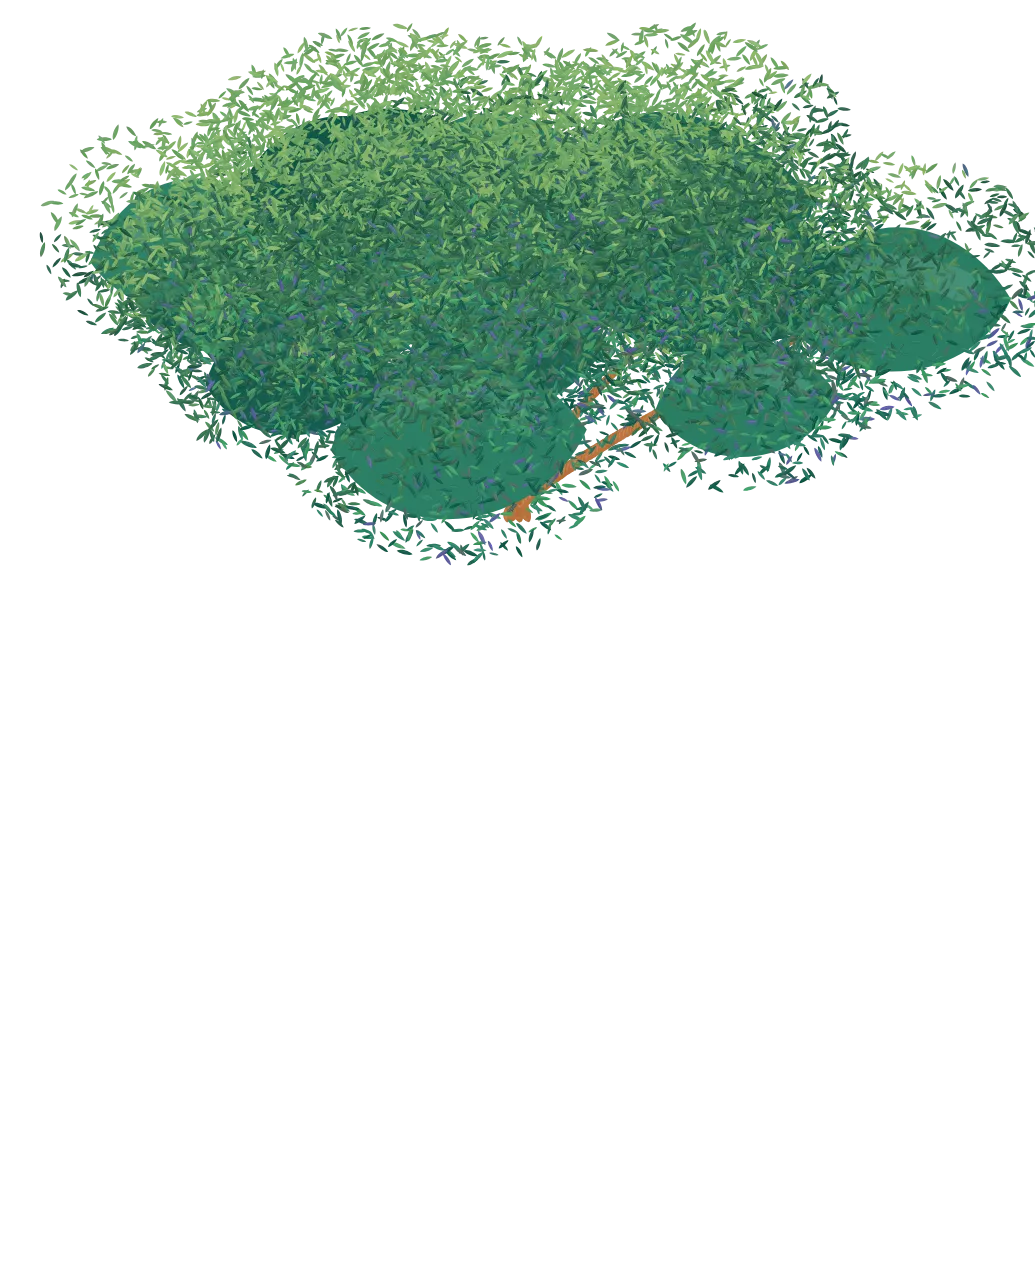
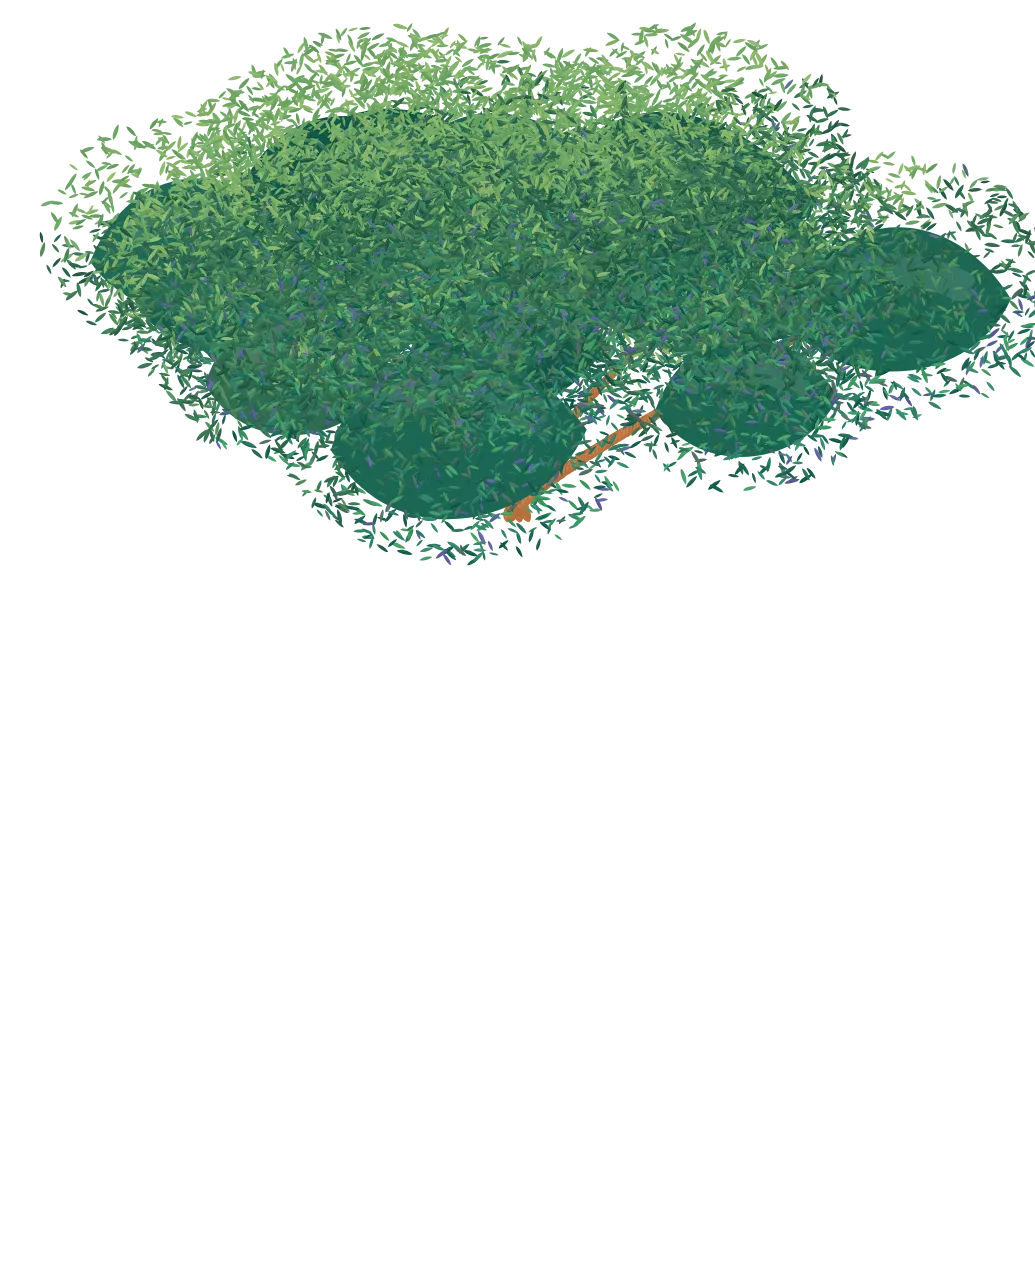
Repaint the Stay square as a glade in the new style
The wedding page's "Stay" painting is now a glade composed from the same
painted trees as the walk - birches, aspen, a rowan with berries,
spruces - in front of a far wall of foliage and pale trunks, with ferns
and flowers on a forest floor drawn in perspective. Branches now leave
the trunk at different heights instead of fanning from one point, and
the shade inside leaf clumps is always deep green.

Claude-Session: https://claude.ai/code/session_01L58MorUYAUdsrYZMewZZCv

diff --git a/assets/klimt/assets.js b/assets/klimt/assets.js
@@ -1,2 +1,2 @@
 /* generated by tools/klimt/export.js */
-window.KLIMT_ASSETS = {"v":"202610311435","trees":[{"TW":300,"TH":1300,"CW":900,"CH":1100,"lean":-5.135299832094461,"hasCrown":true,"cwk":0.58,"at":0.4,"ay":0.88,"seed":500,"kind":"birch","trunk":"tree-0-trunk.webp","crown":"tree-0-crown.webp"},{"TW":300,"TH":1300,"CW":900,"CH":1100,"lean":7.916292874142528,"hasCrown":true,"cwk":0.58,"at":0.4,"ay":0.88,"seed":537,"kind":"birch","trunk":"tree-1-trunk.webp","crown":"tree-1-crown.webp"},{"TW":300,"TH":1300,"CW":900,"CH":1100,"lean":7.302822003606707,"hasCrown":true,"cwk":0.58,"at":0.4,"ay":0.88,"seed":574,"kind":"birch","trunk":"tree-2-trunk.webp","crown":"tree-2-crown.webp"},{"TW":300,"TH":1300,"CW":900,"CH":1100,"lean":-4.784457029309124,"hasCrown":true,"cwk":0.58,"at":0.4,"ay":0.88,"seed":611,"kind":"birch","trunk":"tree-3-trunk.webp","crown":"tree-3-crown.webp"},{"TW":300,"TH":1300,"CW":900,"CH":1100,"lean":3.630536651238799,"hasCrown":true,"cwk":0.72,"at":0.4,"ay":0.88,"seed":648,"kind":"aspen","trunk":"tree-4-trunk.webp","crown":"tree-4-crown.webp"},{"TW":300,"TH":1300,"CW":900,"CH":1100,"lean":4.121461988892406,"hasCrown":true,"cwk":0.72,"at":0.4,"ay":0.88,"seed":685,"kind":"aspen","trunk":"tree-5-trunk.webp","crown":"tree-5-crown.webp"},{"TW":300,"TH":1300,"CW":900,"CH":1100,"lean":4.264245345257223,"hasCrown":true,"cwk":0.72,"at":0.4,"ay":0.88,"seed":722,"kind":"aspen","trunk":"tree-6-trunk.webp","crown":"tree-6-crown.webp"},{"TW":300,"TH":1300,"CW":900,"CH":1100,"lean":6.923804895021021,"hasCrown":true,"cwk":0.8,"at":0.4,"ay":0.88,"seed":759,"kind":"plane","trunk":"tree-7-trunk.webp","crown":"tree-7-crown.webp"},{"TW":300,"TH":1300,"CW":900,"CH":1100,"lean":4.050220062956214,"hasCrown":true,"cwk":0.62,"at":0.4,"ay":0.88,"seed":796,"kind":"rowan","trunk":"tree-8-trunk.webp","crown":"tree-8-crown.webp"},{"TW":300,"TH":1300,"CW":900,"CH":1100,"lean":5.126078965142369,"hasCrown":true,"cwk":0.62,"at":0.4,"ay":0.88,"seed":833,"kind":"rowan","trunk":"tree-9-trunk.webp","crown":"tree-9-crown.webp"},{"TW":300,"TH":1300,"CW":900,"CH":1100,"lean":9.444553330074996,"hasCrown":true,"cwk":0.62,"at":0.4,"ay":0.88,"seed":870,"kind":"pine","trunk":"tree-10-trunk.webp","crown":"tree-10-crown.webp"},{"TW":300,"TH":1300,"CW":900,"CH":1100,"lean":-0.6749369311146438,"hasCrown":true,"cwk":0.62,"at":0.4,"ay":0.88,"seed":907,"kind":"pine","trunk":"tree-11-trunk.webp","crown":"tree-11-crown.webp"},{"TW":560,"TH":1300,"CW":1,"CH":1,"lean":0,"hasCrown":false,"seed":944,"kind":"spruce","trunk":"tree-12-trunk.webp","crown":null},{"TW":560,"TH":1300,"CW":1,"CH":1,"lean":0,"hasCrown":false,"seed":981,"kind":"spruce","trunk":"tree-13-trunk.webp","crown":null},{"TW":560,"TH":1300,"CW":1,"CH":1,"lean":0,"hasCrown":false,"seed":1018,"kind":"spruce","trunk":"tree-14-trunk.webp","crown":null},{"TW":560,"TH":1300,"CW":1,"CH":1,"lean":0,"hasCrown":false,"seed":1055,"kind":"spruce","trunk":"tree-15-trunk.webp","crown":null},{"TW":700,"TH":360,"CW":1,"CH":1,"lean":0,"hasCrown":false,"seed":1092,"kind":"flowers","trunk":"tree-16-trunk.webp","crown":null},{"TW":700,"TH":360,"CW":1,"CH":1,"lean":0,"hasCrown":false,"seed":1129,"kind":"flowers","trunk":"tree-17-trunk.webp","crown":null},{"TW":700,"TH":360,"CW":1,"CH":1,"lean":0,"hasCrown":false,"seed":1166,"kind":"flowers","trunk":"tree-18-trunk.webp","crown":null},{"TW":640,"TH":420,"CW":1,"CH":1,"lean":0,"hasCrown":false,"seed":1203,"kind":"fern","trunk":"tree-19-trunk.webp","crown":null},{"TW":640,"TH":420,"CW":1,"CH":1,"lean":0,"hasCrown":false,"seed":1240,"kind":"fern","trunk":"tree-20-trunk.webp","crown":null},{"TW":640,"TH":420,"CW":1,"CH":1,"lean":0,"hasCrown":false,"seed":1277,"kind":"fern","trunk":"tree-21-trunk.webp","crown":null}],"glints":[],"ground":"ground.webp","path":"path.webp","valley":"valley.webp"};
+window.KLIMT_ASSETS = {"v":"202610311441","trees":[{"TW":300,"TH":1300,"CW":900,"CH":1100,"lean":-5.135299832094461,"hasCrown":true,"cwk":0.58,"at":0.4,"ay":0.88,"seed":500,"kind":"birch","trunk":"tree-0-trunk.webp","crown":"tree-0-crown.webp"},{"TW":300,"TH":1300,"CW":900,"CH":1100,"lean":7.916292874142528,"hasCrown":true,"cwk":0.58,"at":0.4,"ay":0.88,"seed":537,"kind":"birch","trunk":"tree-1-trunk.webp","crown":"tree-1-crown.webp"},{"TW":300,"TH":1300,"CW":900,"CH":1100,"lean":7.302822003606707,"hasCrown":true,"cwk":0.58,"at":0.4,"ay":0.88,"seed":574,"kind":"birch","trunk":"tree-2-trunk.webp","crown":"tree-2-crown.webp"},{"TW":300,"TH":1300,"CW":900,"CH":1100,"lean":-4.784457029309124,"hasCrown":true,"cwk":0.58,"at":0.4,"ay":0.88,"seed":611,"kind":"birch","trunk":"tree-3-trunk.webp","crown":"tree-3-crown.webp"},{"TW":300,"TH":1300,"CW":900,"CH":1100,"lean":3.630536651238799,"hasCrown":true,"cwk":0.72,"at":0.4,"ay":0.88,"seed":648,"kind":"aspen","trunk":"tree-4-trunk.webp","crown":"tree-4-crown.webp"},{"TW":300,"TH":1300,"CW":900,"CH":1100,"lean":4.121461988892406,"hasCrown":true,"cwk":0.72,"at":0.4,"ay":0.88,"seed":685,"kind":"aspen","trunk":"tree-5-trunk.webp","crown":"tree-5-crown.webp"},{"TW":300,"TH":1300,"CW":900,"CH":1100,"lean":4.264245345257223,"hasCrown":true,"cwk":0.72,"at":0.4,"ay":0.88,"seed":722,"kind":"aspen","trunk":"tree-6-trunk.webp","crown":"tree-6-crown.webp"},{"TW":300,"TH":1300,"CW":900,"CH":1100,"lean":6.923804895021021,"hasCrown":true,"cwk":0.8,"at":0.4,"ay":0.88,"seed":759,"kind":"plane","trunk":"tree-7-trunk.webp","crown":"tree-7-crown.webp"},{"TW":300,"TH":1300,"CW":900,"CH":1100,"lean":4.050220062956214,"hasCrown":true,"cwk":0.62,"at":0.4,"ay":0.88,"seed":796,"kind":"rowan","trunk":"tree-8-trunk.webp","crown":"tree-8-crown.webp"},{"TW":300,"TH":1300,"CW":900,"CH":1100,"lean":5.126078965142369,"hasCrown":true,"cwk":0.62,"at":0.4,"ay":0.88,"seed":833,"kind":"rowan","trunk":"tree-9-trunk.webp","crown":"tree-9-crown.webp"},{"TW":300,"TH":1300,"CW":900,"CH":1100,"lean":9.444553330074996,"hasCrown":true,"cwk":0.62,"at":0.4,"ay":0.88,"seed":870,"kind":"pine","trunk":"tree-10-trunk.webp","crown":"tree-10-crown.webp"},{"TW":300,"TH":1300,"CW":900,"CH":1100,"lean":-0.6749369311146438,"hasCrown":true,"cwk":0.62,"at":0.4,"ay":0.88,"seed":907,"kind":"pine","trunk":"tree-11-trunk.webp","crown":"tree-11-crown.webp"},{"TW":560,"TH":1300,"CW":1,"CH":1,"lean":0,"hasCrown":false,"seed":944,"kind":"spruce","trunk":"tree-12-trunk.webp","crown":null},{"TW":560,"TH":1300,"CW":1,"CH":1,"lean":0,"hasCrown":false,"seed":981,"kind":"spruce","trunk":"tree-13-trunk.webp","crown":null},{"TW":560,"TH":1300,"CW":1,"CH":1,"lean":0,"hasCrown":false,"seed":1018,"kind":"spruce","trunk":"tree-14-trunk.webp","crown":null},{"TW":560,"TH":1300,"CW":1,"CH":1,"lean":0,"hasCrown":false,"seed":1055,"kind":"spruce","trunk":"tree-15-trunk.webp","crown":null},{"TW":700,"TH":360,"CW":1,"CH":1,"lean":0,"hasCrown":false,"seed":1092,"kind":"flowers","trunk":"tree-16-trunk.webp","crown":null},{"TW":700,"TH":360,"CW":1,"CH":1,"lean":0,"hasCrown":false,"seed":1129,"kind":"flowers","trunk":"tree-17-trunk.webp","crown":null},{"TW":700,"TH":360,"CW":1,"CH":1,"lean":0,"hasCrown":false,"seed":1166,"kind":"flowers","trunk":"tree-18-trunk.webp","crown":null},{"TW":640,"TH":420,"CW":1,"CH":1,"lean":0,"hasCrown":false,"seed":1203,"kind":"fern","trunk":"tree-19-trunk.webp","crown":null},{"TW":640,"TH":420,"CW":1,"CH":1,"lean":0,"hasCrown":false,"seed":1240,"kind":"fern","trunk":"tree-20-trunk.webp","crown":null},{"TW":640,"TH":420,"CW":1,"CH":1,"lean":0,"hasCrown":false,"seed":1277,"kind":"fern","trunk":"tree-21-trunk.webp","crown":null}],"glints":[],"ground":"ground.webp","path":"path.webp","valley":"valley.webp"};

diff --git a/assets/js/journey.js b/assets/js/journey.js
@@ -291,7 +291,7 @@
       var a = -Math.PI / 2 + (b / (cfg.lobes - 1) - 0.5) * 2.5 + (r() - 0.5) * 0.3, reach = 0.55 + r() * 0.45;
       var tx = ax + Math.cos(a) * rx0 * reach, ty = cy0 + Math.sin(a) * ry0 * reach * 0.9 + ry0 * 0.15, lw = kind === "birch" || kind === "rowan" ? 5 : 9;
       tips.push([tx, ty]);
-      var sy0 = high ? cy0 + ry0 * 1.1 : ay, steps = Math.max(12, Math.round(Math.hypot(tx - ax, ty - sy0) / 3.5));
+      var sy0 = high ? cy0 + ry0 * 1.1 : ay - (ay - cy0) * (0.15 + r() * 0.7), steps = Math.max(12, Math.round(Math.hypot(tx - ax, ty - sy0) / 3.5));
       for (var s2 = 0; s2 <= steps; s2++) {
         var uu = s2 / steps, bx = ax + (tx - ax) * uu + Math.sin(uu * 3 + b) * 8, by = sy0 + (ty - sy0) * Math.pow(uu, 0.8);
         cl.push([bx / CH, by / CH, lw * (1 - uu * 0.7) / CH, lw * 0.55 * (1 - uu * 0.7) / CH, Math.atan2(ty - ay, tx - ax), K.jitter(limbCol, r, 12), 0.01 * uu]);
@@ -302,7 +302,7 @@
     var pals = LEAVES[cfg.leaf](), mids = pals[0], lights = pals[1], darks = K.P.dark;
     clumps.forEach(function (cm) {
       var R = cm[2], cnt = Math.round(R * R * 0.062 * (cfg.leaf === "rowan" ? 1.3 : 1));
-      cl.push([cm[0] / CH, (cm[1] + R * 0.12) / CH, R * 0.78 / CH, R * 0.62 / CH, 0, K.jitter(K.pick(darks, r, 0.8), r, 10), 0.02]); // shade inside the clump
+      cl.push([cm[0] / CH, (cm[1] + R * 0.12) / CH, R * 0.78 / CH, R * 0.62 / CH, 0, K.jitter(["#1f6a58", "#145a4c", "#2f6a4e"][Math.floor(r() * 3)], r, 10), 0.02]); // shade inside the clump
       for (var j = 0; j < cnt; j++) {
         var an = r() * 6.2832, dd = Math.pow(r(), 0.6), qx = cm[0] + Math.cos(an) * dd * R * 1.15, qy = cm[1] + Math.sin(an) * dd * R * 0.92;
         var lx = (qx - cm[0]) / R, ly = (qy - cm[1]) / R, light = -(lx * 0.55 + ly * 0.85) + (cy0 - qy) / ry0 * 0.4 + (r() - 0.5) * 0.5;
@@ -689,12 +689,58 @@
     if (window.console) console.error("journey:", err);
     return;
   }
+  // The glade for the wedding page's "Stay" section, composed once (export only) from the
+  // same painted trees as the walk: far wood, a few trees in the glade, ferns and flowers in front.
+  function composeGlade(S) {
+    var r = K.rng(3131), c = off(S, S), x = c.getContext("2d");
+    var of = function (k) { return sprites.filter(function (sp) { return sp.kind === k; }); };
+    var pickOf = function (ks) { var l = of(ks[Math.floor(r() * ks.length)]); return l[Math.floor(r() * l.length)]; };
+    var g = x.createLinearGradient(0, 0, 0, S);
+    g.addColorStop(0, "#1f4a3a"); g.addColorStop(0.5, "#2f6048"); g.addColorStop(0.68, "#3f7a52"); g.addColorStop(1, "#35603f");
+    x.fillStyle = g; x.fillRect(0, 0, S, S);
+    var dabs = [], gy = S * 0.68;
+    for (var t = 0; t < 120; t++) { // far trunks, pale against the shade
+      var tx = r() * S, tw = 2 + r() * 5, top = S * (0.1 + r() * 0.3), col = r() < 0.6 ? "#c9d2c6" : r() < 0.5 ? "#8fa098" : "#6a7a62";
+      for (var ty = top; ty < gy + 4; ty += 3) dabs.push([tx + (r() - 0.5) * tw, ty, 3.5, 1.6, 1.57 + (r() - 0.5) * 0.3, K.jitter(r() < 0.08 ? "#2a2a26" : col, r, 14)]);
+    }
+    for (var fy = -10; fy < S * 0.62; fy += 4) for (var fx = -10; fx < S + 10; fx += 5) { // the canopy of the wood behind
+      if (r() > 0.32 + Math.pow(1 - fy / (S * 0.62), 1.5) * 0.7) continue;
+      dabs.push([fx + (r() - 0.5) * 6, fy + (r() - 0.5) * 5, 4 + r() * 3, 2.2 + r() * 1.4, (r() - 0.5) * 2.8, K.jitter(K.pick(fy < S * 0.35 ? K.P.dark : K.P.leaf, r, 0.4), r, 20)]);
+    }
+    dabs.forEach(function (d) { dab(x, d[0], d[1], d[2], d[3], d[4], d[5]); });
+    for (var yy = gy, v = 0; yy < S; yy += 2) { // the floor in perspective: finer toward the back
+      var depth = (yy - gy) / (S - gy), sc = 0.12 + depth * 0.5, w = ground.width * sc;
+      v = (v + 2 / sc) % (ground.height - 4);
+      for (var gx = -((yy * 7) % w); gx < S; gx += w) x.drawImage(ground, 0, v, ground.width, 2 / sc, gx, yy, w + 1, 2.4);
+    }
+    var items = [];
+    for (var i = 0; i < 16; i++) items.push({ sp: pickOf(["birch", "aspen", "spruce", "spruce", "pine"]), x: r() * S, y: S * (0.69 + r() * 0.02), h: S * (0.32 + r() * 0.14), far: true });
+    [[0.2, 0.82, 0.74, "aspen"], [0.42, 0.79, 0.62, "birch"], [0.63, 0.81, 0.68, "rowan"], [0.86, 0.8, 0.72, "spruce"], [0.04, 0.97, 1.1, "birch"], [0.98, 0.99, 1.05, "aspen"]].forEach(function (t) {
+      var l = of(t[3]); items.push({ sp: l[Math.floor(r() * l.length)], x: t[0] * S, y: t[1] * S, h: t[2] * S });
+    });
+    for (i = 0; i < 9; i++) items.push({ sp: pickOf(["flowers", "flowers", "fern"]), x: r() * S, y: S * (0.86 + r() * 0.14), h: S * (0.09 + r() * 0.05) });
+    items.sort(function (a, b) { return a.y - b.y; });
+    var hazed = false;
+    items.forEach(function (it) {
+      if (!it.far && !hazed) { hazed = true; x.fillStyle = "rgba(46,92,70,.32)"; x.fillRect(0, 0, S, S * 0.75); }
+      var sp = it.sp, twd = it.h * sp.TW / sp.TH;
+      x.save(); x.translate(it.x, it.y); if (r() < 0.5) x.scale(-1, 1);
+      x.drawImage(sp.trunk, -twd / 2, -it.h, twd, it.h);
+      if (sp.hasCrown && sp.crown) {
+        x.translate(sp.lean / sp.TW * twd * 0.8, -it.h * (sp.at || 0.74));
+        var cw = it.h * (sp.cwk || 1), ch = cw * sp.CH / sp.CW;
+        x.drawImage(sp.crown, -cw / 2, -ch * (sp.ay || 0.72), cw, ch);
+      }
+      x.restore();
+    });
+    return c;
+  }
   if (EXPORT) {
     while (steps.length || queue.length) { if (steps.length) steps.shift()(); else pump(5000); }
     window.__klimtExport = {
       trees: sprites.map(function (sp) { return { trunk: sp.trunk.toDataURL("image/webp", 0.8), crown: sp.crown ? sp.crown.toDataURL("image/webp", 0.8) : null, TW: sp.TW, TH: sp.TH, CW: sp.CW, CH: sp.CH, lean: sp.lean, hasCrown: sp.hasCrown, cwk: sp.cwk, at: sp.at, ay: sp.ay, seed: sp.seed, kind: sp.kind }; }),
       ground: ground.toDataURL("image/webp", 0.84), path: path.toDataURL("image/webp", 0.8),
-      valley: vista.img.toDataURL("image/webp", 0.84),
+      valley: vista.img.toDataURL("image/webp", 0.84), glade: composeGlade(1200).toDataURL("image/webp", 0.84),
       glints: []
     };
     return;

diff --git a/assets/js/i18n.js b/assets/js/i18n.js
@@ -18,7 +18,7 @@ window.I18N = {
     "k.journey": "A walk through a birch forest painted in small dabs of colour, after Klimt; the trees move in the wind, and as you scroll the wood opens onto Järvsö dal.",
     "k.credits": "Painted for Alma & Sanjin, after Gustav Klimt.",
     "k.alt": "A painting in small dabs of colour, after Klimt: the forested hill of Järvsöklack fills the square, crossed by a pale hay meadow; white and red farms and the white church stand along the shore, reflected in the river Ljusnan.",
-    "k.orchard": "A painting in small dabs of colour, after Klimt: an orchard in late summer, a birch among the trunks, small pears in the leaves.",
+    "k.orchard": "A glade in a Hälsingland wood painted in small dabs of colour, after Klimt: birches, an aspen, a rowan with red berries and spruces, with ferns and flowers on the forest floor.",
     "k.year": "Friday 27 August 2027",
     "meta.std.title": "Save the date · Alma & Sanjin",
     "meta.wed.title": "Alma & Sanjin · 27 August 2027 · Järvsö",
@@ -111,7 +111,7 @@ window.I18N = {
     "k.journey": "En promenad genom en björkskog målad i små penseldrag, efter Klimt; träden rör sig i vinden, och när du skrollar öppnar sig skogen mot Järvsö dal.",
     "k.credits": "Målat för Alma & Sanjin, efter Gustav Klimt.",
     "k.alt": "En målning i små penseldrag, efter Klimt: Järvsöklackens skogklädda sluttning fyller kvadraten, korsad av en ljus slåtteräng; vita och röda gårdar och den vita kyrkan står längs stranden och speglas i Ljusnan.",
-    "k.orchard": "En målning i små penseldrag, efter Klimt: en fruktträdgård på sensommaren, en björk bland stammarna, små päron bland bladen.",
+    "k.orchard": "En glänta i en hälsingeskog målad i små penseldrag, efter Klimt: björkar, en asp, en rönn med röda bär och granar, med ormbunkar och blommor på skogsbotten.",
     "k.year": "Fredag 27 augusti 2027",
     "meta.std.title": "Spara datumet · Alma & Sanjin",
     "meta.wed.title": "Alma & Sanjin · 27 augusti 2027 · Järvsö",
@@ -204,7 +204,7 @@ window.I18N = {
     "k.journey": "Šetnja kroz brezovu šumu naslikanu sitnim potezima boje, po uzoru na Klimta; drveće se njiše na vjetru, a dok skrolate, šuma se otvara prema dolini Järvsö.",
     "k.credits": "Naslikano za Almu i Sanjina, po uzoru na Gustava Klimta.",
     "k.alt": "Slika u sitnim potezima boje, po uzoru na Klimta: šumovita padina brda Järvsöklack ispunjava kvadrat, presječena svijetlom livadom; bijele i crvene kuće i bijela crkva stoje uz obalu i ogledaju se u rijeci Ljusnan.",
-    "k.orchard": "Slika u sitnim potezima boje, po uzoru na Klimta: voćnjak krajem ljeta, breza među stablima, sitne kruške u lišću.",
+    "k.orchard": "Proplanak u šumi Hälsinglanda naslikan sitnim potezima boje, po uzoru na Klimta: breze, jasika, oskoruša s crvenim bobicama i smreke, s paprati i cvijećem na šumskom tlu.",
     "k.year": "Petak, 27. august 2027.",
     "meta.std.title": "Sačuvajte datum · Alma & Sanjin",
     "meta.wed.title": "Alma & Sanjin · 27. august 2027. · Järvsö",

diff --git a/wedding.html b/wedding.html
@@ -12,7 +12,7 @@
   <meta property="og:type" content="website">
   <link rel="icon" href="favicon.svg" type="image/svg+xml">
   <link rel="preload" href="assets/fonts/tenor-sans-latin-400-normal.woff2" as="font" type="font/woff2" crossorigin>
-  <link rel="stylesheet" href="assets/css/klimt.css?v=202610311436">
+  <link rel="stylesheet" href="assets/css/klimt.css?v=202610311441">
   <script>document.documentElement.classList.add("js")</script>
 </head>
 <body data-page="wed">
@@ -86,7 +86,7 @@
 
     <section class="section" id="stay" aria-labelledby="stay-title">
       <div class="pair reveal">
-        <div class="painting" data-scene="orchard" role="img" aria-label="An orchard in late summer, after Klimt." data-i18n-attr="aria-label: k.orchard"></div>
+        <img class="painting glade" src="assets/klimt/glade.webp?v=202610311441" width="1200" height="1200" loading="lazy" decoding="async" alt="A glade in a Hälsingland wood, after Klimt." data-i18n-attr="alt: k.orchard">
         <div>
           <h2 id="stay-title" data-i18n="stay.title">Where to stay</h2>
           <p data-i18n="stay.p1">Järvsö is a small village and late August is a lovely time to be there, so it’s wise to book early.</p>
@@ -168,12 +168,12 @@
     <p class="credits" data-i18n="k.credits">Painted for Alma &amp; Sanjin, after Gustav Klimt.</p>
   </footer>
 
-  <script src="assets/js/i18n.js?v=202610311436"></script>
+  <script src="assets/js/i18n.js?v=202610311441"></script>
   <script>window.WEDDING.rsvpEndpoint = "/api/rsvp";</script>
-  <script src="assets/js/site.js?v=202610311436"></script>
-  <script src="assets/js/klimt.js?v=202610311436"></script>
-  <script src="assets/klimt/assets.js?v=202610311436"></script>
-  <script src="assets/js/journey.js?v=202610311436"></script>
-  <script src="assets/js/rsvp.js?v=202610311436"></script>
+  <script src="assets/js/site.js?v=202610311441"></script>
+  <script src="assets/js/klimt.js?v=202610311441"></script>
+  <script src="assets/klimt/assets.js?v=202610311441"></script>
+  <script src="assets/js/journey.js?v=202610311441"></script>
+  <script src="assets/js/rsvp.js?v=202610311441"></script>
 </body>
 </html>

diff --git a/index.html b/index.html
@@ -12,7 +12,7 @@
   <meta property="og:type" content="website">
   <link rel="icon" href="favicon.svg" type="image/svg+xml">
   <link rel="preload" href="assets/fonts/tenor-sans-latin-400-normal.woff2" as="font" type="font/woff2" crossorigin>
-  <link rel="stylesheet" href="assets/css/klimt.css?v=202610311436">
+  <link rel="stylesheet" href="assets/css/klimt.css?v=202610311441">
   <script>document.documentElement.classList.add("js")</script>
 </head>
 <body data-page="std">
@@ -44,11 +44,11 @@
       </div>
     </section>
   </main>
-  <script src="assets/js/i18n.js?v=202610311436"></script>
+  <script src="assets/js/i18n.js?v=202610311441"></script>
   <script>window.WEDDING.rsvpEndpoint = "/api/rsvp";</script>
-  <script src="assets/js/site.js?v=202610311436"></script>
-  <script src="assets/js/klimt.js?v=202610311436"></script>
-  <script src="assets/klimt/assets.js?v=202610311436"></script>
-  <script src="assets/js/journey.js?v=202610311436"></script>
+  <script src="assets/js/site.js?v=202610311441"></script>
+  <script src="assets/js/klimt.js?v=202610311441"></script>
+  <script src="assets/klimt/assets.js?v=202610311441"></script>
+  <script src="assets/js/journey.js?v=202610311441"></script>
 </body>
 </html>

diff --git a/tools/klimt/export.js b/tools/klimt/export.js
@@ -31,6 +31,7 @@ const out = path.join(__dirname, "..", "..", "assets", "klimt");
   manifest.ground = save("ground.webp", data.ground);
   manifest.path = save("path.webp", data.path);
   manifest.valley = save("valley.webp", data.valley);
+  save("glade.webp", data.glade);
   fs.writeFileSync(path.join(out, "assets.js"), "/* generated by tools/klimt/export.js */\nwindow.KLIMT_ASSETS = " + JSON.stringify(manifest) + ";\n");
   const total = fs.readdirSync(out).reduce((n, f) => n + fs.statSync(path.join(out, f)).size, 0);
   console.log(`${fs.readdirSync(out).length} files, ${(total / 1024).toFixed(0)} KB`);

diff --git a/assets/css/klimt.css b/assets/css/klimt.css
@@ -232,3 +232,4 @@ html:not(.js) .journey-final, .journey.is-still .journey-final { position: relat
 .journey-final .links { margin-top: auto; padding: .2rem 1.2rem; }
 .journey-final .links a { color: #1d2a26; text-shadow: 0 0 12px rgb(214 232 214 / .95), 0 0 3px rgb(214 232 214 / .9); }
 html:not(.js) .journey-final, .journey.is-still .journey-final { display: block; padding: 0; }
+img.painting.glade { display: block; height: auto; object-fit: cover; }
